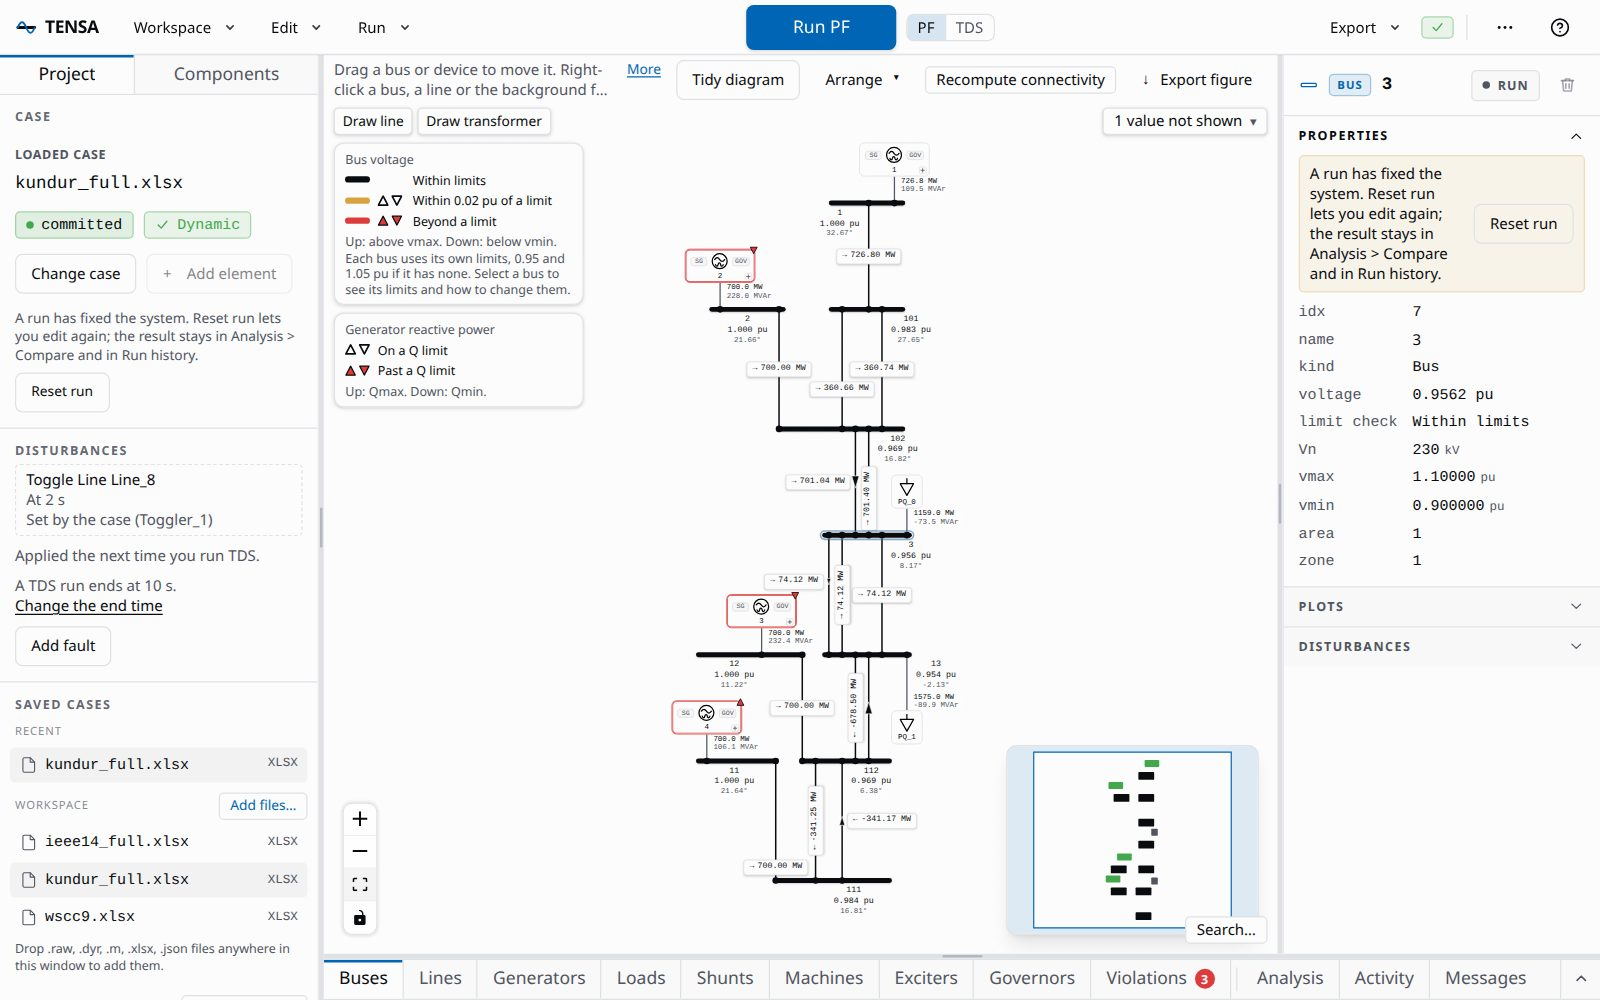
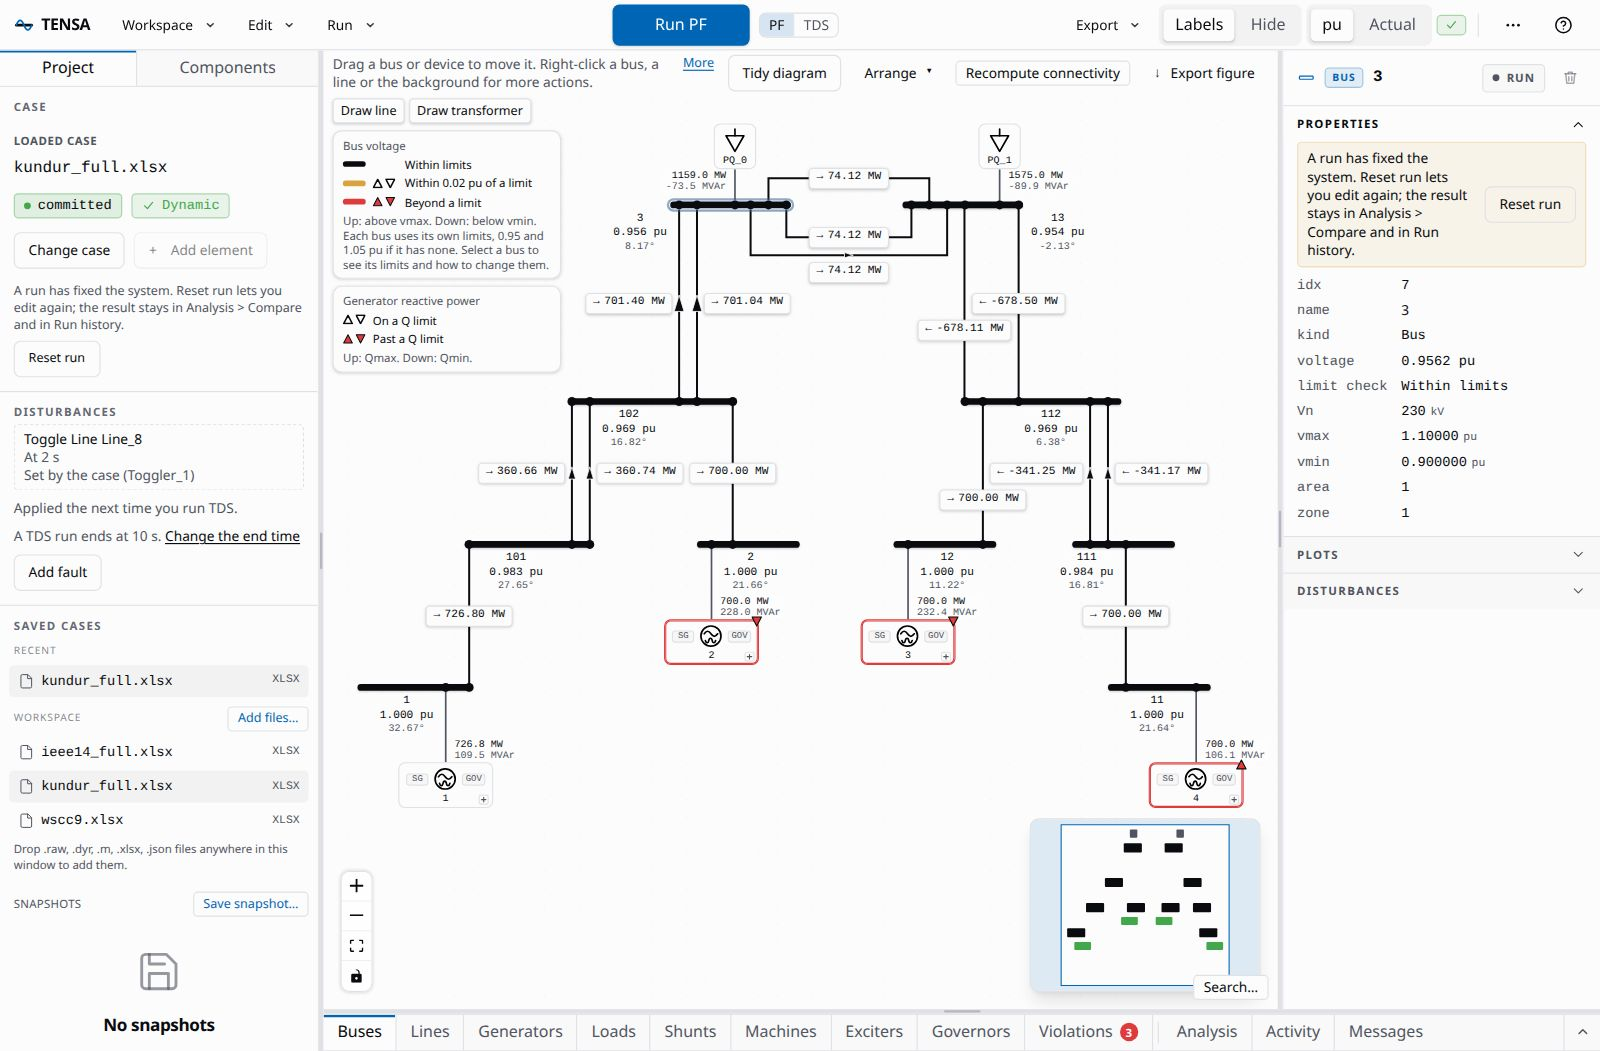
docs: retake the hero picture with the diagram filling the window
The picture at the top of the README and of the site's first page showed
Kundur's system as a narrow column in the middle of the canvas, with the line
over the diagram cut off by an ellipsis. It is taken again in a window wide
enough for that line (1400 by 920), with the two areas arranged side by side
so the diagram fills the pane, a solved power flow, bus 7 in the Inspector and
the Project tab ending on a whole heading. The file is 2 kB smaller than the
one it replaces.

web/scripts/docs-screenshots.mjs reproduces it: it stores the arrangement of
the buses beside the case through the layout route, fits the diagram with the
app's own Fit view (the button of the zoom controls leaves a corner of a wide
diagram behind the minimap), collapses the drawer by its button, and stops
before the picture when the window holds a line the app has cut short. A test
holds that check to the mark ClampedText sets.

diff --git a/server/tests/unit/test_docs_site.py b/server/tests/unit/test_docs_site.py
@@ -396,6 +396,25 @@ def test_the_hero_image_is_one_the_script_takes(mkdocs: dict[str, Any]) -> None:
             assert f"img/{path.name}" in shown, f"no page shows docs/img/{path.name}"
 
 
+def test_the_hero_image_is_not_taken_with_a_line_cut_short() -> None:
+    """The picture at the top of the README once showed the line over the diagram cut off
+    with an ellipsis, because the window it was taken in was too narrow for it. The app
+    marks a text it has cut (``data-cut``, set by ``ClampedText``), and the script looks for
+    that mark and stops before it takes the hero while the window holds one. A mark by
+    another name would let every window pass, so the two are held together here."""
+    script = WEB_DIR / "scripts" / "docs-screenshots.mjs"
+    clamped = WEB_DIR / "src" / "components" / "ui" / "ClampedText.tsx"
+    if not script.is_file() or not clamped.is_file():
+        pytest.skip("the web sources are not next to the tests")
+    assert "data-cut={cut ? 'true' : undefined}" in clamped.read_text(encoding="utf-8")
+    source = script.read_text(encoding="utf-8")
+    assert """page.locator('[data-cut="true"]')""" in source
+    # The last thing before the picture, so nothing that follows can cut a line again.
+    assert re.search(r"await refuseCutText\(page\);\s+await shoot\(page, 'hero\.jpeg'", source), (
+        "the hero is taken without the check for a cut line"
+    )
+
+
 # ---- what the pages say about the program ----------------------------------------------
 
 

diff --git a/docs/contributing.md b/docs/contributing.md
@@ -69,7 +69,7 @@ cd web
 node scripts/docs-screenshots.mjs http://127.0.0.1:18800
 ```
 
-It needs the built UI and Playwright's Chromium (`pnpm exec playwright install chromium`, once). It writes `ui-overview.jpg`, `ui-tds.jpg`, `ui-eig.jpg`, `ui-cpf.jpg` and `hero.jpeg` into `docs/img/`. The browser it drives is headless, so no window opens. Keep the images JPEG and under about 200 KB each. CI refuses a change that adds a file over 1 MiB, which [CONTRIBUTING.md](https://github.com/Roger-GO/TENSA/blob/main/CONTRIBUTING.md#media-and-other-large-files) explains.
+It needs the built UI and Playwright's Chromium (`pnpm exec playwright install chromium`, once). It writes `ui-overview.jpg`, `ui-tds.jpg`, `ui-eig.jpg`, `ui-cpf.jpg` and `hero.jpeg` into `docs/img/`. The browser it drives is headless, so no window opens. For the hero image it arranges the diagram of the Kundur case wide, and that arrangement is kept beside the case in the workspace as the app keeps one made by hand, which is one more reason to give the script a workspace of its own. Keep the images JPEG and under about 200 KB each. CI refuses a change that adds a file over 1 MiB, which [CONTRIBUTING.md](https://github.com/Roger-GO/TENSA/blob/main/CONTRIBUTING.md#media-and-other-large-files) explains.
 
 ## Publish on GitHub Pages
 
